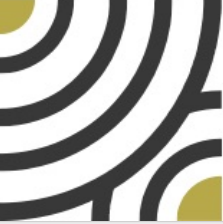
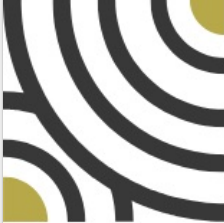
Fix assembly type 6

diff --git a/motifs_color.py b/motifs_color.py
@@ -44,12 +44,14 @@ def group_by_4(image:object, assembly_type:int, joint_size:int=None) -> object:
         - grouped (cv2.Image) : l'image en quadruple
     """
     size = image.shape[0]
+    # Get the number of channels from the input image
+    num_channels = image.shape[2] if len(image.shape) > 2 else 1
 
     if joint_size is None:
         joint_size = int(size/100)
     marge = int(joint_size/4)
 
-    output_image = np.zeros((size*2 + joint_size, size*2 + joint_size, 4), dtype=np.uint8)
+    output_image = np.zeros((size*2 + joint_size, size*2 + joint_size, num_channels), dtype=np.uint8)
 
     top_left = image
     top_right = image
@@ -78,8 +80,8 @@ def group_by_4(image:object, assembly_type:int, joint_size:int=None) -> object:
         bottom_right = cv2.rotate(top_left, cv2.ROTATE_180)
         bottom_left = image
 
-    horizontal_joint = np.zeros((joint_size+marge*2, size*2+joint_size, 4), dtype=np.uint8)
-    vertical_joint = np.zeros((size*2+joint_size, joint_size+marge*2, 4), dtype=np.uint8)
+    horizontal_joint = np.zeros((joint_size+marge*2, size*2+joint_size, num_channels), dtype=np.uint8)
+    vertical_joint = np.zeros((size*2+joint_size, joint_size+marge*2, num_channels), dtype=np.uint8)
 
     output_image[0:size, 0:size] = top_left
     output_image[size+joint_size:size*2+joint_size, 0:size] = bottom_left
@@ -112,8 +114,10 @@ def stack_horizontal(images: list, joint_size: int, marge: int) -> object:
         return None
     actual_joint_thickness = joint_size + marge * 2
     result = images[0]
+    # Get the number of channels from the first image
+    num_channels = result.shape[2] if len(result.shape) > 2 else 1
     for i in range(1, len(images)):
-        vertical_joint = np.zeros((images[0].shape[0], actual_joint_thickness, 4), dtype=np.uint8)
+        vertical_joint = np.zeros((images[0].shape[0], actual_joint_thickness, num_channels), dtype=np.uint8)
         result = np.concatenate((result, vertical_joint, images[i]), axis=1)
     return result
 
@@ -123,8 +127,10 @@ def stack_vertical(images: list, joint_size: int, marge: int) -> object:
         return None
     actual_joint_thickness = joint_size + marge * 2
     result = images[0]
+    # Get the number of channels from the first image
+    num_channels = result.shape[2] if len(result.shape) > 2 else 1
     for i in range(1, len(images)):
-        horizontal_joint = np.zeros((actual_joint_thickness, images[0].shape[1], 4), dtype=np.uint8)
+        horizontal_joint = np.zeros((actual_joint_thickness, images[0].shape[1], num_channels), dtype=np.uint8)
         result = np.concatenate((result, horizontal_joint, images[i]), axis=0)
     return result
 
@@ -253,6 +259,8 @@ def generate_custom_grid(image: object, assembly_type: int, num_rows: int, num_c
     """
     marge = int(joint_size / 4)
     tile_h, tile_w = image.shape[:2]
+    # Get the number of channels from the input image
+    num_channels = image.shape[2] if len(image.shape) > 2 else 1
     
     def get_rotated_tile(row, col):
         # Logic for rotation based on position and assembly_type
@@ -275,6 +283,20 @@ def generate_custom_grid(image: object, assembly_type: int, num_rows: int, num_c
                 return image
             else:
                 return cv2.rotate(image, cv2.ROTATE_180)
+        elif assembly_type == 5:
+            # For assembly_type 5, alternate flip/rotate for odd columns, but flip logic for even/odd rows
+            if row % 2 == 0:
+                # Even row: normal/rotated pattern
+                if col % 2 == 0:
+                    return image
+                else:
+                    return cv2.flip(cv2.rotate(image, cv2.ROTATE_180), 0)
+            else:
+                # Odd row: invert the pattern
+                if col % 2 == 0:
+                    return cv2.flip(cv2.rotate(image, cv2.ROTATE_180), 0)
+                else:
+                    return image
         else:
             return image
 
@@ -290,7 +312,7 @@ def generate_custom_grid(image: object, assembly_type: int, num_rows: int, num_c
             actual_joint_thickness = joint_size + marge * 2
             row_img = row_tiles[0]
             for t in row_tiles[1:]:
-                vertical_joint = np.zeros((tile_h, actual_joint_thickness, 4), dtype=np.uint8)
+                vertical_joint = np.zeros((tile_h, actual_joint_thickness, num_channels), dtype=np.uint8)
                 row_img = np.concatenate((row_img, vertical_joint, t), axis=1)
         else:
             row_img = row_tiles[0]
@@ -300,7 +322,7 @@ def generate_custom_grid(image: object, assembly_type: int, num_rows: int, num_c
         actual_joint_thickness = joint_size + marge * 2
         grid_img = grid_rows[0]
         for r in grid_rows[1:]:
-            horizontal_joint = np.zeros((actual_joint_thickness, grid_img.shape[1], 4), dtype=np.uint8)
+            horizontal_joint = np.zeros((actual_joint_thickness, grid_img.shape[1], num_channels), dtype=np.uint8)
             grid_img = np.concatenate((grid_img, horizontal_joint, r), axis=0)
     else:
         grid_img = grid_rows[0]

diff --git a/main.py b/main.py
@@ -37,6 +37,11 @@ def main(nom_motif, assemble_choice, assembly_type_choice, assembly_subtype_choi
     if os.path.exists(base_img_path):
         base_img = cv2.imread(base_img_path, cv2.IMREAD_UNCHANGED)
         tile = cv2.resize(base_img, (122, 122))
+
+        top_left = tile
+        top_right = tile
+        bottom_right = tile
+        bottom_left = tile
         # Rotation logic as in motifs_color.py lines 60-79
         if assembly_subtype_choice == 1:
             top_left = tile
@@ -62,7 +67,9 @@ def main(nom_motif, assemble_choice, assembly_type_choice, assembly_subtype_choi
         joint_size = 2
         marge = int(joint_size / 4)
         size = tile.shape[0]
-        output_image = np.zeros((size*2 + joint_size, size*2 + joint_size, 4), dtype=np.uint8)
+        # Get the number of channels from the tile
+        num_channels = tile.shape[2] if len(tile.shape) > 2 else 1
+        output_image = np.zeros((size*2 + joint_size, size*2 + joint_size, num_channels), dtype=np.uint8)
         output_image[0:size, 0:size] = top_left
         output_image[size+joint_size:size*2+joint_size, 0:size] = bottom_left
         output_image[0:size, size+joint_size:size*2+joint_size] = top_right
@@ -167,10 +174,18 @@ if __name__ == '__main__':
                     top_right = cv2.rotate(top_left, cv2.ROTATE_180)
                     bottom_right = cv2.rotate(top_left, cv2.ROTATE_180)
                     bottom_left = tile
+                elif assembly_subtype_choice == 5:
+                    top_left = tile
+                    top_right = cv2.flip(cv2.rotate(top_left, cv2.ROTATE_180), 0)  # rotate 180, then flip vertically
+                    bottom_right = tile
+                    bottom_left = cv2.flip(cv2.rotate(top_left, cv2.ROTATE_180), 0) # rotate 180, then flip vertically
+
                 joint_size = 2
                 marge = int(joint_size / 4)
                 size = tile.shape[0]
-                output_image = np.zeros((size*2 + joint_size, size*2 + joint_size, 4), dtype=np.uint8)
+                # Get the number of channels from the tile
+                num_channels = tile.shape[2] if len(tile.shape) > 2 else 1
+                output_image = np.zeros((size*2 + joint_size, size*2 + joint_size, num_channels), dtype=np.uint8)
                 output_image[0:size, 0:size] = top_left
                 output_image[size+joint_size:size*2+joint_size, 0:size] = bottom_left
                 output_image[0:size, size+joint_size:size*2+joint_size] = top_right
